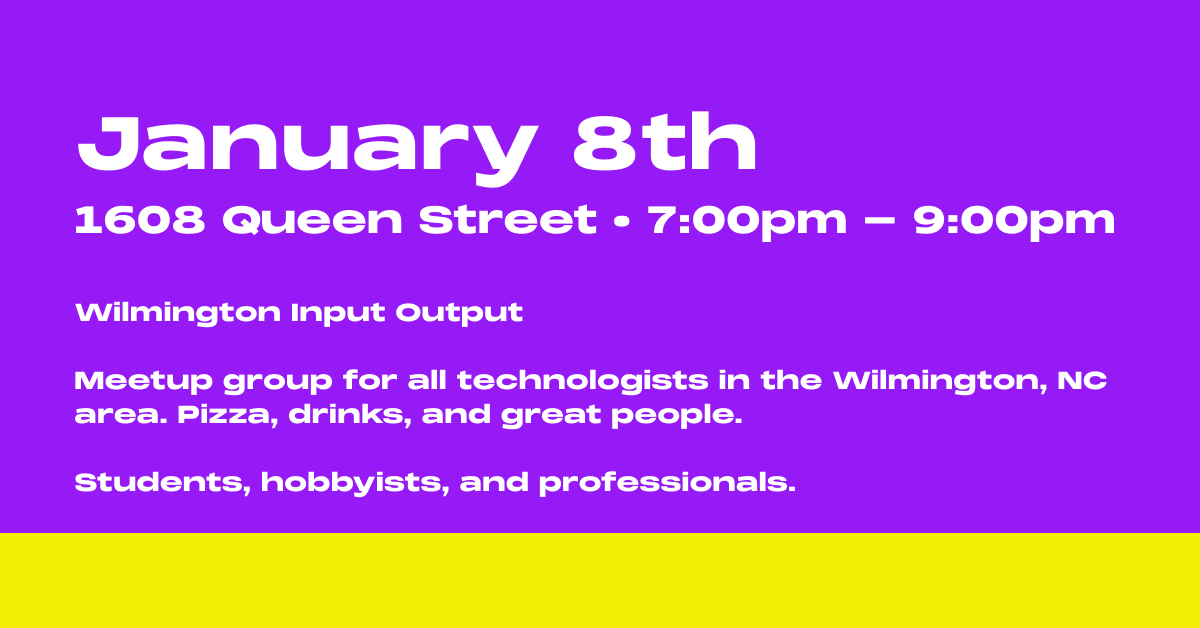
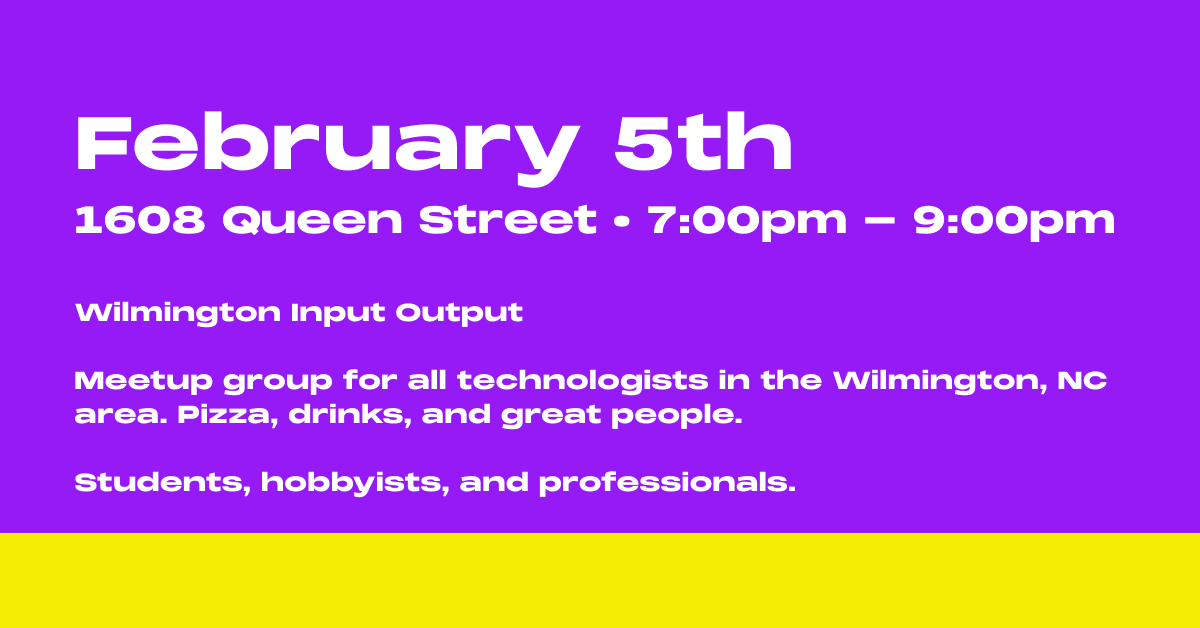
Added feb 5th event

Changed region(s): [[0.0617, 0.1815, 0.6783, 0.3025]]

diff --git a/src/index.html b/src/index.html
@@ -40,7 +40,7 @@
             >
         </header>
         <h1>Wilmington<br />Input Output</h1>
-        <a target="_blank" rel="noopener noreferrer" href="https://www.eventbrite.com/e/social-hangout-share-your-projects-tickets-1123845665639?aff=oddtdtcreator" class="cta" title="Attend!">
+        <a target="_blank" rel="noopener noreferrer" href="https://www.eventbrite.com/e/social-panel-of-10-year-pros-in-tech-tickets-1123854000569?utm-campaign=social&utm-content=attendeeshare&utm-medium=discovery&utm-term=listing&utm-source=cp&aff=ebdsshcopyurl" class="cta" title="Attend!">
             <span>Attend</span>
             <span><svg xmlns="http://www.w3.org/2000/svg" width="32" height="32" fill="#000000" viewBox="0 0 256 256"><path d="M128,24A104,104,0,1,0,232,128,104.11,104.11,0,0,0,128,24Zm0,192a88,88,0,1,1,88-88A88.1,88.1,0,0,1,128,216Zm45.66-93.66a8,8,0,0,1,0,11.32l-32,32a8,8,0,0,1-11.32-11.32L148.69,136H88a8,8,0,0,1,0-16h60.69l-18.35-18.34a8,8,0,0,1,11.32-11.32Z"></path></svg></span>
         </a>
@@ -70,7 +70,7 @@
         <div class="cards">
             <div>
                 <h3>Past Events</h3>
-                <span>87+</span>
+                <span>88+</span>
             </div>
             <div>
                 <h3>Unique Attendees</h3>
@@ -78,7 +78,7 @@
             </div>
             <div>
                 <h3>when</h3>
-                <span>Jan 8th</span>
+                <span>Feb 5th</span>
                 <sub>7:00 PM - 9:00 PM</sub>
             </div>
             <div>
